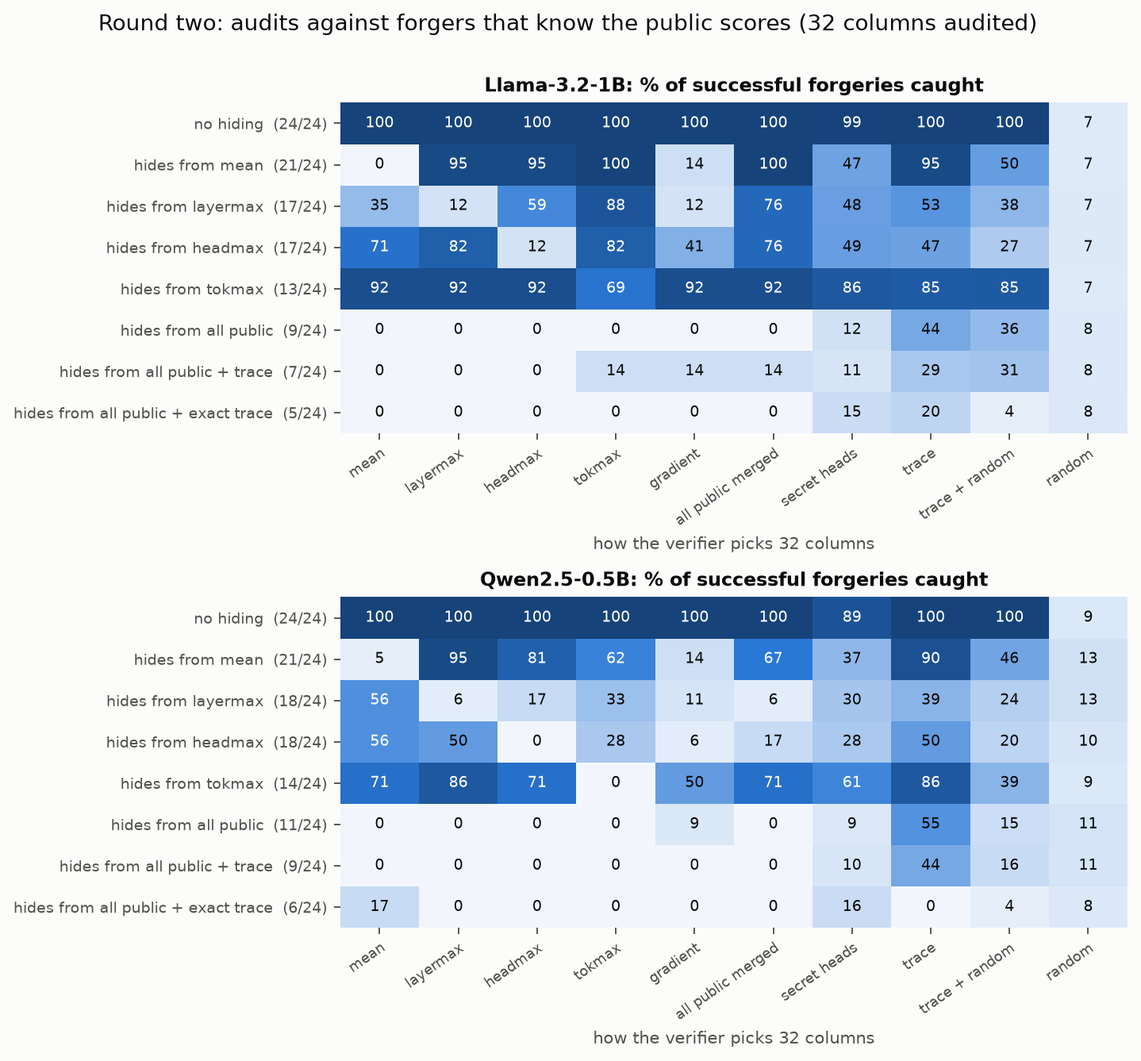
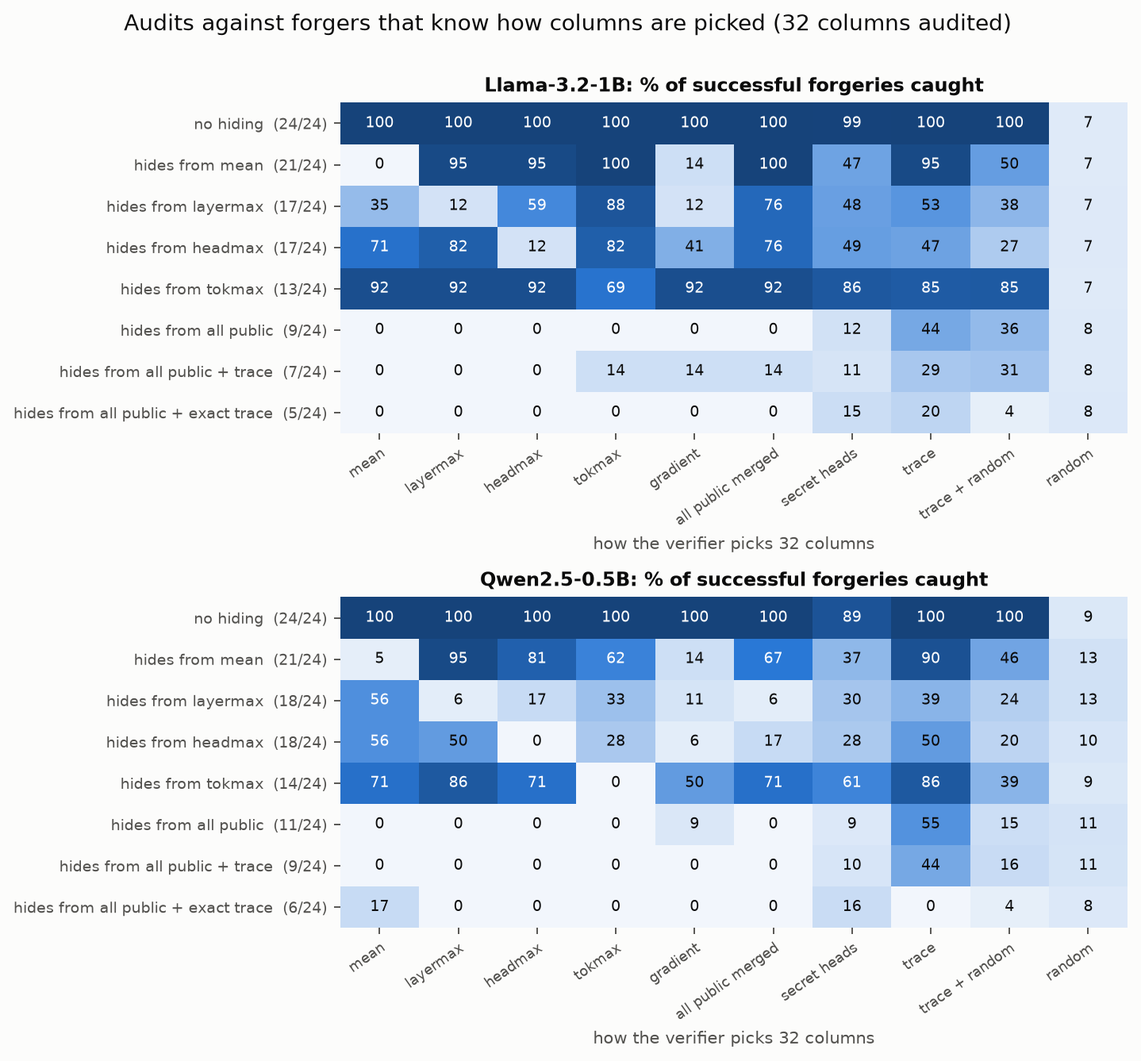
Defense figure title covers round three

Changed region(s): [[0.0918, 0.0, 0.9179, 0.0307]]

diff --git a/docs/paper.html b/docs/paper.html
@@ -52,7 +52,7 @@ code{font-size:13px}.refs{font-size:13.5px}
 <h2>4. One column is enough</h2><p>We forge one column, at one of five depths and three kinds of position: the last token of the fact's value, a uniformly random non-sink token, and the last document token. The forger may change the residual stream there by up to β times its norm. It then runs the rest of the prefill honestly. Over 24 memos per model (mean length 446 and 429 tokens) and 576 attacks per model, 446 of the Llama forgeries and 434 of the Qwen forgeries made the trusted node answer exactly the attacker's value. At β&nbsp;=&nbsp;1, the success rate across all layers and positions is 86% for Llama and 80% for Qwen. Position barely matters: a forged column on an unrelated token, far from the fact, works about as well as one on the fact itself. The attack does not need to edit the fact. It needs one place the question reads.</p><p>The full column check confirms the structure from §3.1. In 99.8% (Llama) and 98.6% (Qwen) of successful forgeries, the forged column is the <i>only</i> column that fails. The few exceptions are forgeries that also change later columns enough to show. No honest cache failed a single column: the largest honest score over all 48 evaluation memos was 0.79 for Llama and 0.98 for Qwen, against a threshold of 1. These memos are disjoint from the 20 calibration memos.</p><figure><img src="figures/forge_success.png" alt="forge_success"><figcaption>Figure 1. Success rate of single-column forgeries (β = 1) by layer and position kind, with 95% Wilson intervals.</figcaption></figure><figure><img src="figures/forge_budget.png" alt="forge_budget"><figcaption>Figure 2. Success against the perturbation budget β at the middle layer.</figcaption></figure><table class=""><tr><th>model</th><th>layer</th><th>β</th><th>success</th><th>value pos.</th><th>random pos.</th><th>last pos.</th><th>only forged col. fails</th></tr><tr><td>Llama-3.2-1B</td><td>1</td><td>1</td><td>60/72</td><td>96%</td><td>75%</td><td>79%</td><td>98%</td></tr><tr><td>Llama-3.2-1B</td><td>4</td><td>1</td><td>60/72</td><td>92%</td><td>88%</td><td>71%</td><td>100%</td></tr><tr><td>Llama-3.2-1B</td><td>8</td><td>0.25</td><td>12/72</td><td>29%</td><td>8%</td><td>12%</td><td>100%</td></tr><tr><td>Llama-3.2-1B</td><td>8</td><td>0.5</td><td>55/72</td><td>71%</td><td>71%</td><td>88%</td><td>100%</td></tr><tr><td>Llama-3.2-1B</td><td>8</td><td>1</td><td>69/72</td><td>96%</td><td>96%</td><td>96%</td><td>100%</td></tr><tr><td>Llama-3.2-1B</td><td>8</td><td>2</td><td>70/72</td><td>92%</td><td>100%</td><td>100%</td><td>100%</td></tr><tr><td>Llama-3.2-1B</td><td>12</td><td>1</td><td>66/72</td><td>83%</td><td>92%</td><td>100%</td><td>100%</td></tr><tr><td>Llama-3.2-1B</td><td>15</td><td>1</td><td>54/72</td><td>50%</td><td>83%</td><td>92%</td><td>100%</td></tr><tr><td>Qwen2.5-0.5B</td><td>1</td><td>1</td><td>47/72</td><td>92%</td><td>58%</td><td>46%</td><td>96%</td></tr><tr><td>Qwen2.5-0.5B</td><td>6</td><td>1</td><td>66/72</td><td>100%</td><td>83%</td><td>92%</td><td>95%</td></tr><tr><td>Qwen2.5-0.5B</td><td>12</td><td>0.25</td><td>18/72</td><td>25%</td><td>21%</td><td>29%</td><td>100%</td></tr><tr><td>Qwen2.5-0.5B</td><td>12</td><td>0.5</td><td>58/72</td><td>83%</td><td>67%</td><td>92%</td><td>100%</td></tr><tr><td>Qwen2.5-0.5B</td><td>12</td><td>1</td><td>69/72</td><td>96%</td><td>96%</td><td>96%</td><td>100%</td></tr><tr><td>Qwen2.5-0.5B</td><td>12</td><td>2</td><td>70/72</td><td>100%</td><td>96%</td><td>96%</td><td>99%</td></tr><tr><td>Qwen2.5-0.5B</td><td>18</td><td>1</td><td>66/72</td><td>83%</td><td>92%</td><td>100%</td><td>100%</td></tr><tr><td>Qwen2.5-0.5B</td><td>23</td><td>1</td><td>40/72</td><td>71%</td><td>58%</td><td>38%</td><td>100%</td></tr></table><p class='cap'>Table 1. Single-column forgeries. 24 tasks × 3 positions per row.</p>
 <h2>5. Auditing where the question reads</h2><p>A full check is a second prefill, so the practical question is how few columns an audit needs. Uniform sampling of <i>k</i> columns catches one bad column with probability <i>k/T</i>. The data match: 64 random columns catch 15% of Llama forgeries and 15% of Qwen forgeries. Checking the 4 sinks plus the 4 columns with the highest value-weighted attention (<i>k</i>&nbsp;=&nbsp;8 in total) catches 91% and 77%. With <i>k</i>&nbsp;=&nbsp;32 it catches 98% and 95%. The median forged column is the 5th most-read column, counting the four sinks: to change the answer, the forged column has to be read, and reading is visible. In 79% of Llama forgeries and 66% of Qwen forgeries, the single most-read non-sink column <i>is</i> the forged one.</p><p>Forgeries on the last document token are the easiest to find (top-8 catches 97% on Llama). The last token is read heavily by the question in any case. Forgeries on the fact's own value token are the hardest (84%), because the honest value token is already among the most-read, so a forgery there competes with the real signal. Qwen is harder throughout. With only 2 KV heads, its attention spreads over more columns, so the forged one is less of an outlier.</p><figure><img src="figures/detection.png" alt="detection"><figcaption>Figure 3. Probability that an audit of k columns contains the forged column. Exact hypergeometric probabilities for random plans, averaged over successful forgeries.</figcaption></figure><table class=""><tr><th>model</th><th>forgeries</th><th>top-8</th><th>top-16</th><th>top-32</th><th>top-8 + 8 random</th><th>random 4</th><th>random 16</th><th>random 64</th></tr><tr><td>Llama-3.2-1B</td><td>446</td><td>91%</td><td>96%</td><td>98%</td><td>91%</td><td>0.9%</td><td>3.7%</td><td>14.5%</td></tr><tr><td>Qwen2.5-0.5B</td><td>434</td><td>77%</td><td>86%</td><td>95%</td><td>78%</td><td>0.9%</td><td>3.8%</td><td>15.1%</td></tr></table><p class='cap'>Table 2. Detection of successful single-column forgeries. Top-k includes the 4 sink columns.</p><h3>5.1 Long documents</h3><p>The ratio matters more as documents grow. With the facts scattered through Moby-Dick (Llama, layers L/4, L/2, 3L/4), a 2044-token cache leaves uniform 64-column audits at 3.2%, while top-32 still catches 100%. The forged column's median rank stays small as <i>T</i> grows, so the audit cost in columns stays flat while the uniform cost grows linearly.</p><table class=""><tr><th>T (tokens)</th><th>success</th><th>only forged fails</th><th>top-8</th><th>top-16</th><th>top-32</th><th>random 64</th><th>median rank</th></tr><tr><td>2044</td><td>97/108</td><td>99.0%</td><td>96%</td><td>100%</td><td>100%</td><td>3.2%</td><td>5</td></tr></table><p class='cap'>Table 3. Llama-3.2-1B on long documents.</p>
 <h2>6. Adaptive attackers</h2><p>The audit's strength in §5 rests on a forged column having to be read. An attacker who knows the scoring rule can try to be read <i>enough</i> without being read <i>most</i>. Our adaptive forger adds a hinge penalty that pushes each forged column's score below 0.7× the score of the <i>k</i>-th ranked other column. The score is computed on its own forged cache with the trusted node's question, which we let the attacker know in advance. It attacks one of two scores: <i>mean</i> (the default in §5) or <i>layermax</i> (per-layer normalised, max over layers). It can also spread the edit over <i>m</i> random columns.</p><h3>Llama-3.2-1B</h3><table class="small"><tr><th>attacker</th><th>success</th><th>rank (mean)</th><th>rank (layermax)</th><th>rank (grad)</th><th>top-32 mean</th><th>top-32 layermax</th><th>ensemble-16</th><th>top-32 + 32 random</th><th>random 64</th><th>direct</th></tr><tr><td>no hiding (λ = 0)</td><td>16/16</td><td>0</td><td>0</td><td>0</td><td>100%</td><td>100%</td><td>100%</td><td>100%</td><td>14%</td><td>100%</td></tr><tr><td>m = 1, hide below top-4, vs. mean</td><td>14/16</td><td>10</td><td>0</td><td>22</td><td>100%</td><td>100%</td><td>100%</td><td>100%</td><td>15%</td><td>71%</td></tr><tr><td>m = 1, hide below top-28, vs. mean</td><td>10/16</td><td>50</td><td>11</td><td>49</td><td>0%</td><td>100%</td><td>70%</td><td>8%</td><td>15%</td><td>60%</td></tr><tr><td>m = 1, hide below top-4, vs. layermax</td><td>12/16</td><td>38</td><td>10</td><td>54</td><td>42%</td><td>100%</td><td>92%</td><td>47%</td><td>15%</td><td>83%</td></tr><tr><td>m = 1, hide below top-12, vs. layermax</td><td>9/16</td><td>20</td><td>23</td><td>38</td><td>67%</td><td>78%</td><td>56%</td><td>69%</td><td>16%</td><td>78%</td></tr><tr><td>m = 1, hide below top-28, vs. layermax</td><td>8/16</td><td>50</td><td>35</td><td>47</td><td>25%</td><td>38%</td><td>38%</td><td>32%</td><td>16%</td><td>75%</td></tr><tr><td>m = 1, hide below top-60, vs. layermax</td><td>6/16</td><td>2</td><td>8</td><td>26</td><td>83%</td><td>83%</td><td>83%</td><td>85%</td><td>14%</td><td>100%</td></tr><tr><td>m = 4, hide below top-12, vs. layermax</td><td>13/16</td><td>4</td><td>7</td><td>14</td><td>77%</td><td>100%</td><td>85%</td><td>84%</td><td>47%</td><td>92%</td></tr><tr><td>m = 16, hide below top-12, vs. layermax</td><td>13/16</td><td>0</td><td>0</td><td>1</td><td>100%</td><td>100%</td><td>100%</td><td>100%</td><td>92%</td><td>92%</td></tr><tr><td>m = 64, hide below top-12, vs. layermax</td><td>15/16</td><td>0</td><td>0</td><td>0</td><td>100%</td><td>100%</td><td>100%</td><td>100%</td><td>100%</td><td>100%</td></tr></table><h3>Qwen2.5-0.5B</h3><table class="small"><tr><th>attacker</th><th>success</th><th>rank (mean)</th><th>rank (layermax)</th><th>rank (grad)</th><th>top-32 mean</th><th>top-32 layermax</th><th>ensemble-16</th><th>top-32 + 32 random</th><th>random 64</th><th>direct</th></tr><tr><td>no hiding (λ = 0)</td><td>16/16</td><td>0</td><td>0</td><td>7</td><td>100%</td><td>100%</td><td>100%</td><td>100%</td><td>18%</td><td>100%</td></tr><tr><td>m = 1, hide below top-4, vs. mean</td><td>15/16</td><td>12</td><td>0</td><td>23</td><td>87%</td><td>87%</td><td>87%</td><td>88%</td><td>16%</td><td>73%</td></tr><tr><td>m = 1, hide below top-28, vs. mean</td><td>12/16</td><td>49</td><td>1</td><td>100</td><td>8%</td><td>92%</td><td>75%</td><td>17%</td><td>17%</td><td>50%</td></tr><tr><td>m = 1, hide below top-4, vs. layermax</td><td>15/16</td><td>24</td><td>11</td><td>44</td><td>53%</td><td>67%</td><td>67%</td><td>58%</td><td>20%</td><td>40%</td></tr><tr><td>m = 1, hide below top-12, vs. layermax</td><td>11/16</td><td>24</td><td>21</td><td>56</td><td>55%</td><td>82%</td><td>45%</td><td>60%</td><td>17%</td><td>73%</td></tr><tr><td>m = 1, hide below top-28, vs. layermax</td><td>9/16</td><td>87</td><td>51</td><td>110</td><td>33%</td><td>0%</td><td>0%</td><td>39%</td><td>15%</td><td>56%</td></tr><tr><td>m = 1, hide below top-60, vs. layermax</td><td>6/16</td><td>46</td><td>90</td><td>72</td><td>33%</td><td>17%</td><td>33%</td><td>40%</td><td>17%</td><td>33%</td></tr><tr><td>m = 4, hide below top-12, vs. layermax</td><td>13/16</td><td>10</td><td>14</td><td>28</td><td>77%</td><td>92%</td><td>77%</td><td>84%</td><td>51%</td><td>92%</td></tr><tr><td>m = 16, hide below top-12, vs. layermax</td><td>14/16</td><td>6</td><td>12</td><td>11</td><td>100%</td><td>100%</td><td>100%</td><td>100%</td><td>93%</td><td>100%</td></tr><tr><td>m = 64, hide below top-12, vs. layermax</td><td>14/16</td><td>0</td><td>0</td><td>1</td><td>100%</td><td>100%</td><td>100%</td><td>100%</td><td>100%</td><td>93%</td></tr></table><p class='cap'>Table 4. Adaptive forgeries at the middle layer, β = 1. Ranks are the median over successful attacks of the best-hidden forged column's rank among non-sink columns (0 = most read). Detection columns are the probability of catching it. Ensemble-16 is the union of the top 16 under all three scores, plus the sinks (≈ 30–45 columns). <i>Direct</i> is the fraction where putting the honest forged columns back restores the honest answer, so the effect does not run through other columns.</p><p><b>A single score can be gamed.</b> Without the penalty, the forged column is ranked 0 (median, among non-sink columns). An attacker hiding below the top 28 under the mean score still succeeds in 10/16 tasks and lands at rank 50, so top-32 under that score catches it 0% of the time. The same forgery is ranked 11 by layermax: the mean score is low because the column is read hard at a few layers, not lightly everywhere.</p><p><b>Gaming the stronger score works too.</b> Attacking layermax directly with hide-28, the forger succeeds in 8/16 tasks. Its column then ranks 35 under layermax, 50 under mean and 47 under the gradient score, and top-32 layermax catches 38%. The union of the top 16 under all three scores catches 38%, with about 32 columns. This is the honest result: an attacker that knows the score can lower it. A deterministic top-k audit is an arms race, not a guarantee.</p><p>Qwen2.5-0.5B is easier to game. The same attacker succeeds in 9/16 tasks, and top-32 layermax catches 0% of them, the ensemble 0%. Only the random columns still find it, at the k/T rate (15% for 64).</p><p><b>Spreading out costs the attacker detectability elsewhere.</b> With m&nbsp;=&nbsp;64 forged columns hidden from layermax top-12, it succeeds in 15/16 tasks, but each of those caches has 64 failing columns, so 64 random columns catch it 100% of the time. That is the case random draws are for. Mixing the two (top-32 + 32 random) covers both ends: 100% here.</p><p>So the deterministic part of an audit should be treated as a cheap filter for non-adaptive faults and attacks. Guarantees against an adaptive forger come only from the random part, at <i>k/T</i> per forged column, or from a full recompute of whatever the audit's budget cannot cover.</p><figure><img src="figures/adaptive.png" alt="adaptive"><figcaption>Figure 4. Adaptive attackers. Left: where the forged column lands in each ranking. Right: detection by audit plan.</figcaption></figure>
-<h3>6.1 Round two: audits the attacker cannot see</h3><p>Two things stand out in Table 4. Different scores disagree about where a hidden column lands, and in 24% (Llama-3.2-1B) and 44% (Qwen2.5-0.5B) of successful hidden single-column forgeries, putting the honest column back does <i>not</i> restore the answer. The forgery has been <i>laundered</i>: later columns read the forged one during prefill, carry its effect forward, and the question reads them instead. Those later columns are consistent with their inputs, so they pass the check. This suggests two defenses. The first is scores the attacker cannot optimise against: finer ones (per head, per reader token) and a <b>secret</b> one, a random quarter of the heads with random weights, drawn by the verifier for each audit. The second is <b>tracing</b>. The audit recomputes its columns anyway, and the recomputation yields each column's own attention to earlier columns. So after auditing the most-read columns, the verifier follows what <i>they</i> read most (value-weighted, per head, max over layers), audits those, and repeats until the budget is spent (Algorithm: half the budget on merged public scores, the rest in rounds of B/8 traced columns).</p><p>We test this against seven attackers that hide one forged column below the 28 most-read columns of one public score, of all four at once, or of all four <i>and</i> the tracing rule itself, using a differentiable copy of the trace rows on the forged prefill. 24 tasks per model, 150 Adam steps, middle layer, β = 1. Every plan audits exactly 32 columns, including the 4 sinks.</p><h3>Llama-3.2-1B</h3><table class="small"><tr><th>attacker</th><th>success</th><th>mean</th><th>layermax</th><th>headmax</th><th>tokmax</th><th>gradient</th><th>all public merged</th><th>secret heads</th><th>trace</th><th>trace + random</th><th>random</th></tr><tr><td>no hiding</td><td>24/24</td><td>100%</td><td>100%</td><td>100%</td><td>100%</td><td>100%</td><td>100%</td><td>99%</td><td>100%</td><td>100%</td><td>7%</td></tr><tr><td>hides from mean</td><td>21/24</td><td>0%</td><td>95%</td><td>95%</td><td>100%</td><td>14%</td><td>100%</td><td>47%</td><td>95%</td><td>50%</td><td>7%</td></tr><tr><td>hides from layermax</td><td>17/24</td><td>35%</td><td>12%</td><td>59%</td><td>88%</td><td>12%</td><td>76%</td><td>48%</td><td>53%</td><td>38%</td><td>7%</td></tr><tr><td>hides from headmax</td><td>17/24</td><td>71%</td><td>82%</td><td>12%</td><td>82%</td><td>41%</td><td>76%</td><td>49%</td><td>47%</td><td>27%</td><td>7%</td></tr><tr><td>hides from tokmax</td><td>13/24</td><td>92%</td><td>92%</td><td>92%</td><td>69%</td><td>92%</td><td>92%</td><td>86%</td><td>85%</td><td>85%</td><td>7%</td></tr><tr><td>hides from all public</td><td>9/24</td><td>0%</td><td>0%</td><td>0%</td><td>0%</td><td>0%</td><td>0%</td><td>12%</td><td>44%</td><td>36%</td><td>8%</td></tr><tr><td>hides from all public + trace</td><td>7/24</td><td>0%</td><td>0%</td><td>0%</td><td>14%</td><td>14%</td><td>14%</td><td>11%</td><td>29%</td><td>31%</td><td>8%</td></tr><tr><td>hides from all public + exact trace</td><td>5/24</td><td>0%</td><td>0%</td><td>0%</td><td>0%</td><td>0%</td><td>0%</td><td>15%</td><td>20%</td><td>4%</td><td>8%</td></tr></table><h3>Qwen2.5-0.5B</h3><table class="small"><tr><th>attacker</th><th>success</th><th>mean</th><th>layermax</th><th>headmax</th><th>tokmax</th><th>gradient</th><th>all public merged</th><th>secret heads</th><th>trace</th><th>trace + random</th><th>random</th></tr><tr><td>no hiding</td><td>24/24</td><td>100%</td><td>100%</td><td>100%</td><td>100%</td><td>100%</td><td>100%</td><td>89%</td><td>100%</td><td>100%</td><td>9%</td></tr><tr><td>hides from mean</td><td>21/24</td><td>5%</td><td>95%</td><td>81%</td><td>62%</td><td>14%</td><td>67%</td><td>37%</td><td>90%</td><td>46%</td><td>13%</td></tr><tr><td>hides from layermax</td><td>18/24</td><td>56%</td><td>6%</td><td>17%</td><td>33%</td><td>11%</td><td>6%</td><td>30%</td><td>39%</td><td>24%</td><td>13%</td></tr><tr><td>hides from headmax</td><td>18/24</td><td>56%</td><td>50%</td><td>0%</td><td>28%</td><td>6%</td><td>17%</td><td>28%</td><td>50%</td><td>20%</td><td>10%</td></tr><tr><td>hides from tokmax</td><td>14/24</td><td>71%</td><td>86%</td><td>71%</td><td>0%</td><td>50%</td><td>71%</td><td>61%</td><td>86%</td><td>39%</td><td>9%</td></tr><tr><td>hides from all public</td><td>11/24</td><td>0%</td><td>0%</td><td>0%</td><td>0%</td><td>9%</td><td>0%</td><td>9%</td><td>55%</td><td>15%</td><td>11%</td></tr><tr><td>hides from all public + trace</td><td>9/24</td><td>0%</td><td>0%</td><td>0%</td><td>0%</td><td>0%</td><td>0%</td><td>10%</td><td>44%</td><td>16%</td><td>11%</td></tr><tr><td>hides from all public + exact trace</td><td>6/24</td><td>17%</td><td>0%</td><td>0%</td><td>0%</td><td>0%</td><td>0%</td><td>16%</td><td>0%</td><td>4%</td><td>8%</td></tr></table><p class='cap'>Table 5. Probability that a 32-column audit catches a successful forgery, by attacker (rows) and audit plan (columns). Secret: mean over 32 secret draws. Random parts are exact hypergeometric probabilities.</p><figure><img src="figures/defense.png" alt="defense"><figcaption>Figure 5. Round two of the arms race. Each cell: share of successful forgeries a 32-column audit catches.</figcaption></figure><p><b>The game.</b> An audit plan is only as good as the attacker's best reply to it. For each plan, Table 6 gives the share of tasks in which the <i>best</i> of our attackers both flips the answer and escapes the audit (success rate × miss rate, maximised over attackers). On Llama-3.2-1B, against a 32-column audit the attacker's best reply wins 88% of the time if the verifier uses the default mean score, 93% against random columns, and 38% against the best plan, <i>tokmax</i> (its best reply there: <i>hides from all public</i>). On Qwen2.5-0.5B, against a 32-column audit the attacker's best reply wins 83% of the time if the verifier uses the default mean score, 91% against random columns, and 46% against the best plan, <i>trace</i> (its best reply there: <i>hides from layermax</i>).</p><table class="small"><tr><th>audit plan</th><th>Llama B=16</th><th>Llama B=32</th><th>Llama B=64</th><th>Qwen2.5 B=16</th><th>Qwen2.5 B=32</th><th>Qwen2.5 B=64</th></tr><tr><td>mean</td><td>88%</td><td>88%</td><td>25%</td><td>88%</td><td>83%</td><td>29%</td></tr><tr><td>layermax</td><td>67%</td><td>62%</td><td>21%</td><td>75%</td><td>71%</td><td>25%</td></tr><tr><td>headmax</td><td>62%</td><td>62%</td><td>29%</td><td>75%</td><td>75%</td><td>46%</td></tr><tr><td>tokmax</td><td>38%</td><td>38%</td><td>21%</td><td>75%</td><td>58%</td><td>33%</td></tr><tr><td>gradient</td><td>88%</td><td>75%</td><td>42%</td><td>83%</td><td>75%</td><td>62%</td></tr><tr><td>all public merged</td><td>58%</td><td>38%</td><td>33%</td><td>75%</td><td>71%</td><td>38%</td></tr><tr><td>secret heads</td><td>60%</td><td>47%</td><td>29%</td><td>68%</td><td>55%</td><td>41%</td></tr><tr><td>trace</td><td>54%</td><td>38%</td><td>17%</td><td>62%</td><td>46%</td><td>25%</td></tr><tr><td>trace + random</td><td>97%</td><td>52%</td><td>34%</td><td>97%</td><td>60%</td><td>38%</td></tr><tr><td>random</td><td>96%</td><td>93%</td><td>85%</td><td>95%</td><td>91%</td><td>82%</td></tr></table><p class='cap'>Table 6. Worst-case attacker win rate per audit plan (lower is better for the verifier), at audit budgets of 16, 32 and 64 columns.</p><figure><img src="figures/game.png" alt="game"><figcaption>Figure 6. The attacker's best reply to each 32-column audit plan: how often it both flips the answer and escapes the audit.</figcaption></figure><p><b>What holds on both models.</b> (1) The default mean score is the easiest to game: the best reply beats a 32-column mean audit 88% of the time on Llama-3.2-1B and 83% of the time on Qwen2.5-0.5B, no better than 32 random columns (93%, 91%). (2) No single public score is robust across models. The finest one, tokmax (per head, layer and reader token), holds the attacker to 38% on Llama-3.2-1B but 58% on Qwen2.5-0.5B. (3) Tracing is the most consistent plan: 38% on Llama-3.2-1B and 46% on Qwen2.5-0.5B. It does not rely on any one score, but follows the path the forged information has to take to reach the question. The attacker that also optimises against the trace rule did exactly as well as the one that ignores it, in success and in detection. Our differentiable copy of the trace covers one hop from a fixed set of read columns, while the verifier keeps following hops until its budget runs out; a stronger trace-aware attacker is the obvious next step. (4) Secret head subsets help only modestly (47%, 55%): an attacker that is quiet in every head is quiet in any subset of them.</p><p>Two caveats. The attackers hide below rank 28, which matches the 32-column budget. At 64 columns every attention-based plan looks strong (tracing 17% on Llama-3.2-1B, tracing 25% on Qwen2.5-0.5B) only because the attackers were not told about the larger budget. And all of these are games against our optimiser (150 Adam steps, one hinge loss per score), so the rates describe a modest white-box attacker, not a bound. Random columns give the only attacker-independent guarantee, and at k/T it is a weak one.</p><p><b>Round three: an attacker that knows the trace exactly.</b> We gave the forger a replay of the verifier's own trace plan (same budget, same rounds, same weights, on its own forged prefill), and a penalty whenever its column would be picked, on top of hiding from all four public scores. On Llama-3.2-1B, it succeeds in only 5/24 tasks; tracing catches 20% of those, so it beats the traced audit in 17% of tasks, below the best reply to tracing among the other attackers (38%). On Qwen2.5-0.5B, it succeeds in only 6/24 tasks; tracing catches 0% of those, so it beats the traced audit in 25% of tasks, below the best reply to tracing among the other attackers (46%). Knowing the rule lets the attacker evade it, but satisfying it costs most of its success. A plausible reading, which we have not tested directly: the forged information has to reach the question through some column the question reads, and keeping every hop of that path quiet leaves little room to change the answer. The worst case for tracing is still set by simpler attackers.</p>
+<h3>6.1 Round two: audits the attacker cannot see</h3><p>Two things stand out in Table 4. Different scores disagree about where a hidden column lands, and in 24% (Llama-3.2-1B) and 44% (Qwen2.5-0.5B) of successful hidden single-column forgeries, putting the honest column back does <i>not</i> restore the answer. The forgery has been <i>laundered</i>: later columns read the forged one during prefill, carry its effect forward, and the question reads them instead. Those later columns are consistent with their inputs, so they pass the check. This suggests two defenses. The first is scores the attacker cannot optimise against: finer ones (per head, per reader token) and a <b>secret</b> one, a random quarter of the heads with random weights, drawn by the verifier for each audit. The second is <b>tracing</b>. The audit recomputes its columns anyway, and the recomputation yields each column's own attention to earlier columns. So after auditing the most-read columns, the verifier follows what <i>they</i> read most (value-weighted, per head, max over layers), audits those, and repeats until the budget is spent (Algorithm: half the budget on merged public scores, the rest in rounds of B/8 traced columns).</p><p>We test this against seven attackers that hide one forged column below the 28 most-read columns of one public score, of all four at once, or of all four <i>and</i> the tracing rule itself, using a differentiable copy of the trace rows on the forged prefill. 24 tasks per model, 150 Adam steps, middle layer, β = 1. Every plan audits exactly 32 columns, including the 4 sinks.</p><h3>Llama-3.2-1B</h3><table class="small"><tr><th>attacker</th><th>success</th><th>mean</th><th>layermax</th><th>headmax</th><th>tokmax</th><th>gradient</th><th>all public merged</th><th>secret heads</th><th>trace</th><th>trace + random</th><th>random</th></tr><tr><td>no hiding</td><td>24/24</td><td>100%</td><td>100%</td><td>100%</td><td>100%</td><td>100%</td><td>100%</td><td>99%</td><td>100%</td><td>100%</td><td>7%</td></tr><tr><td>hides from mean</td><td>21/24</td><td>0%</td><td>95%</td><td>95%</td><td>100%</td><td>14%</td><td>100%</td><td>47%</td><td>95%</td><td>50%</td><td>7%</td></tr><tr><td>hides from layermax</td><td>17/24</td><td>35%</td><td>12%</td><td>59%</td><td>88%</td><td>12%</td><td>76%</td><td>48%</td><td>53%</td><td>38%</td><td>7%</td></tr><tr><td>hides from headmax</td><td>17/24</td><td>71%</td><td>82%</td><td>12%</td><td>82%</td><td>41%</td><td>76%</td><td>49%</td><td>47%</td><td>27%</td><td>7%</td></tr><tr><td>hides from tokmax</td><td>13/24</td><td>92%</td><td>92%</td><td>92%</td><td>69%</td><td>92%</td><td>92%</td><td>86%</td><td>85%</td><td>85%</td><td>7%</td></tr><tr><td>hides from all public</td><td>9/24</td><td>0%</td><td>0%</td><td>0%</td><td>0%</td><td>0%</td><td>0%</td><td>12%</td><td>44%</td><td>36%</td><td>8%</td></tr><tr><td>hides from all public + trace</td><td>7/24</td><td>0%</td><td>0%</td><td>0%</td><td>14%</td><td>14%</td><td>14%</td><td>11%</td><td>29%</td><td>31%</td><td>8%</td></tr><tr><td>hides from all public + exact trace</td><td>5/24</td><td>0%</td><td>0%</td><td>0%</td><td>0%</td><td>0%</td><td>0%</td><td>15%</td><td>20%</td><td>4%</td><td>8%</td></tr></table><h3>Qwen2.5-0.5B</h3><table class="small"><tr><th>attacker</th><th>success</th><th>mean</th><th>layermax</th><th>headmax</th><th>tokmax</th><th>gradient</th><th>all public merged</th><th>secret heads</th><th>trace</th><th>trace + random</th><th>random</th></tr><tr><td>no hiding</td><td>24/24</td><td>100%</td><td>100%</td><td>100%</td><td>100%</td><td>100%</td><td>100%</td><td>89%</td><td>100%</td><td>100%</td><td>9%</td></tr><tr><td>hides from mean</td><td>21/24</td><td>5%</td><td>95%</td><td>81%</td><td>62%</td><td>14%</td><td>67%</td><td>37%</td><td>90%</td><td>46%</td><td>13%</td></tr><tr><td>hides from layermax</td><td>18/24</td><td>56%</td><td>6%</td><td>17%</td><td>33%</td><td>11%</td><td>6%</td><td>30%</td><td>39%</td><td>24%</td><td>13%</td></tr><tr><td>hides from headmax</td><td>18/24</td><td>56%</td><td>50%</td><td>0%</td><td>28%</td><td>6%</td><td>17%</td><td>28%</td><td>50%</td><td>20%</td><td>10%</td></tr><tr><td>hides from tokmax</td><td>14/24</td><td>71%</td><td>86%</td><td>71%</td><td>0%</td><td>50%</td><td>71%</td><td>61%</td><td>86%</td><td>39%</td><td>9%</td></tr><tr><td>hides from all public</td><td>11/24</td><td>0%</td><td>0%</td><td>0%</td><td>0%</td><td>9%</td><td>0%</td><td>9%</td><td>55%</td><td>15%</td><td>11%</td></tr><tr><td>hides from all public + trace</td><td>9/24</td><td>0%</td><td>0%</td><td>0%</td><td>0%</td><td>0%</td><td>0%</td><td>10%</td><td>44%</td><td>16%</td><td>11%</td></tr><tr><td>hides from all public + exact trace</td><td>6/24</td><td>17%</td><td>0%</td><td>0%</td><td>0%</td><td>0%</td><td>0%</td><td>16%</td><td>0%</td><td>4%</td><td>8%</td></tr></table><p class='cap'>Table 5. Probability that a 32-column audit catches a successful forgery, by attacker (rows) and audit plan (columns). Secret: mean over 32 secret draws. Random parts are exact hypergeometric probabilities.</p><figure><img src="figures/defense.png" alt="defense"><figcaption>Figure 5. Rounds two and three of the arms race. Each cell: share of successful forgeries a 32-column audit catches.</figcaption></figure><p><b>The game.</b> An audit plan is only as good as the attacker's best reply to it. For each plan, Table 6 gives the share of tasks in which the <i>best</i> of our attackers both flips the answer and escapes the audit (success rate × miss rate, maximised over attackers). On Llama-3.2-1B, against a 32-column audit the attacker's best reply wins 88% of the time if the verifier uses the default mean score, 93% against random columns, and 38% against the best plan, <i>tokmax</i> (its best reply there: <i>hides from all public</i>). On Qwen2.5-0.5B, against a 32-column audit the attacker's best reply wins 83% of the time if the verifier uses the default mean score, 91% against random columns, and 46% against the best plan, <i>trace</i> (its best reply there: <i>hides from layermax</i>).</p><table class="small"><tr><th>audit plan</th><th>Llama B=16</th><th>Llama B=32</th><th>Llama B=64</th><th>Qwen2.5 B=16</th><th>Qwen2.5 B=32</th><th>Qwen2.5 B=64</th></tr><tr><td>mean</td><td>88%</td><td>88%</td><td>25%</td><td>88%</td><td>83%</td><td>29%</td></tr><tr><td>layermax</td><td>67%</td><td>62%</td><td>21%</td><td>75%</td><td>71%</td><td>25%</td></tr><tr><td>headmax</td><td>62%</td><td>62%</td><td>29%</td><td>75%</td><td>75%</td><td>46%</td></tr><tr><td>tokmax</td><td>38%</td><td>38%</td><td>21%</td><td>75%</td><td>58%</td><td>33%</td></tr><tr><td>gradient</td><td>88%</td><td>75%</td><td>42%</td><td>83%</td><td>75%</td><td>62%</td></tr><tr><td>all public merged</td><td>58%</td><td>38%</td><td>33%</td><td>75%</td><td>71%</td><td>38%</td></tr><tr><td>secret heads</td><td>60%</td><td>47%</td><td>29%</td><td>68%</td><td>55%</td><td>41%</td></tr><tr><td>trace</td><td>54%</td><td>38%</td><td>17%</td><td>62%</td><td>46%</td><td>25%</td></tr><tr><td>trace + random</td><td>97%</td><td>52%</td><td>34%</td><td>97%</td><td>60%</td><td>38%</td></tr><tr><td>random</td><td>96%</td><td>93%</td><td>85%</td><td>95%</td><td>91%</td><td>82%</td></tr></table><p class='cap'>Table 6. Worst-case attacker win rate per audit plan (lower is better for the verifier), at audit budgets of 16, 32 and 64 columns.</p><figure><img src="figures/game.png" alt="game"><figcaption>Figure 6. The attacker's best reply to each 32-column audit plan: how often it both flips the answer and escapes the audit.</figcaption></figure><p><b>What holds on both models.</b> (1) The default mean score is the easiest to game: the best reply beats a 32-column mean audit 88% of the time on Llama-3.2-1B and 83% of the time on Qwen2.5-0.5B, no better than 32 random columns (93%, 91%). (2) No single public score is robust across models. The finest one, tokmax (per head, layer and reader token), holds the attacker to 38% on Llama-3.2-1B but 58% on Qwen2.5-0.5B. (3) Tracing is the most consistent plan: 38% on Llama-3.2-1B and 46% on Qwen2.5-0.5B. It does not rely on any one score, but follows the path the forged information has to take to reach the question. The attacker that also optimises against the trace rule did exactly as well as the one that ignores it, in success and in detection. Our differentiable copy of the trace covers one hop from a fixed set of read columns, while the verifier keeps following hops until its budget runs out; a stronger trace-aware attacker is the obvious next step. (4) Secret head subsets help only modestly (47%, 55%): an attacker that is quiet in every head is quiet in any subset of them.</p><p>Two caveats. The attackers hide below rank 28, which matches the 32-column budget. At 64 columns every attention-based plan looks strong (tracing 17% on Llama-3.2-1B, tracing 25% on Qwen2.5-0.5B) only because the attackers were not told about the larger budget. And all of these are games against our optimiser (150 Adam steps, one hinge loss per score), so the rates describe a modest white-box attacker, not a bound. Random columns give the only attacker-independent guarantee, and at k/T it is a weak one.</p><p><b>Round three: an attacker that knows the trace exactly.</b> We gave the forger a replay of the verifier's own trace plan (same budget, same rounds, same weights, on its own forged prefill), and a penalty whenever its column would be picked, on top of hiding from all four public scores. On Llama-3.2-1B, it succeeds in only 5/24 tasks; tracing catches 20% of those, so it beats the traced audit in 17% of tasks, below the best reply to tracing among the other attackers (38%). On Qwen2.5-0.5B, it succeeds in only 6/24 tasks; tracing catches 0% of those, so it beats the traced audit in 25% of tasks, below the best reply to tracing among the other attackers (46%). Knowing the rule lets the attacker evade it, but satisfying it costs most of its success. A plausible reading, which we have not tested directly: the forged information has to reach the question through some column the question reads, and keeping every hop of that path quiet leaves little room to change the answer. The worst case for tracing is still set by simpler attackers.</p>
 <h2>7. Hiding inside the tolerance</h2><p>bf16 forces a tolerance, and a tolerance is room. We test two attackers that try to stay inside it. The <i>edit</i> attacker changes every stored entry at every layer in place, by at most ρ × the largest honest error. The <i>distributed forger</i> nudges the residual stream of every document column at the middle layer by a relative ε, then computes everything else honestly, so each column carries only its own small inconsistency.</p><table class="small"><tr><th>model</th><th>dtype</th><th>attack</th><th>ρ or ε</th><th>success</th><th>failing columns (mean)</th><th>fewest failing when it worked</th><th>median max score</th></tr><tr><td>Llama-3.2-1B</td><td>bf16</td><td>edit</td><td>0.1</td><td>0%</td><td>0 / 446</td><td>–</td><td>0.9</td></tr><tr><td>Llama-3.2-1B</td><td>bf16</td><td>edit</td><td>0.3</td><td>58%</td><td>278 / 446</td><td>131</td><td>2.9</td></tr><tr><td>Llama-3.2-1B</td><td>bf16</td><td>edit</td><td>1</td><td>100%</td><td>444 / 446</td><td>427</td><td>8.1</td></tr><tr><td>Llama-3.2-1B</td><td>bf16</td><td>forge</td><td>0.001</td><td>0%</td><td>0 / 446</td><td>–</td><td>0.7</td></tr><tr><td>Llama-3.2-1B</td><td>bf16</td><td>forge</td><td>0.003</td><td>0%</td><td>0 / 446</td><td>–</td><td>0.8</td></tr><tr><td>Llama-3.2-1B</td><td>bf16</td><td>forge</td><td>0.01</td><td>8%</td><td>9 / 446</td><td>8</td><td>1.7</td></tr><tr><td>Llama-3.2-1B</td><td>bf16</td><td>forge</td><td>0.03</td><td>8%</td><td>298 / 446</td><td>290</td><td>4.9</td></tr><tr><td>Llama-3.2-1B</td><td>bf16</td><td>forge</td><td>0.1</td><td>100%</td><td>442 / 446</td><td>425</td><td>10.3</td></tr><tr><td>Llama-3.2-1B</td><td>fp32</td><td>edit</td><td>0.1</td><td>0%</td><td>0 / 444</td><td>–</td><td>0.9</td></tr><tr><td>Llama-3.2-1B</td><td>fp32</td><td>edit</td><td>0.3</td><td>0%</td><td>73 / 444</td><td>–</td><td>2.1</td></tr><tr><td>Llama-3.2-1B</td><td>fp32</td><td>edit</td><td>1</td><td>0%</td><td>436 / 444</td><td>–</td><td>6.9</td></tr><tr><td>Llama-3.2-1B</td><td>fp32</td><td>forge</td><td>1e-05</td><td>0%</td><td>437 / 444</td><td>–</td><td>7.3</td></tr><tr><td>Llama-3.2-1B</td><td>fp32</td><td>forge</td><td>0.0001</td><td>0%</td><td>440 / 444</td><td>–</td><td>72.4</td></tr><tr><td>Llama-3.2-1B</td><td>fp32</td><td>forge</td><td>0.001</td><td>0%</td><td>440 / 444</td><td>–</td><td>731.9</td></tr><tr><td>Llama-3.2-1B</td><td>fp32</td><td>forge</td><td>0.01</td><td>12%</td><td>440 / 444</td><td>446</td><td>6669.5</td></tr><tr><td>Llama-3.2-1B</td><td>fp32</td><td>forge</td><td>0.1</td><td>100%</td><td>440 / 444</td><td>425</td><td>43598.8</td></tr><tr><td>Qwen2.5-0.5B</td><td>bf16</td><td>edit</td><td>0.1</td><td>8%</td><td>127 / 430</td><td>104</td><td>2.4</td></tr><tr><td>Qwen2.5-0.5B</td><td>bf16</td><td>edit</td><td>0.3</td><td>83%</td><td>426 / 430</td><td>408</td><td>7.0</td></tr><tr><td>Qwen2.5-0.5B</td><td>bf16</td><td>edit</td><td>1</td><td>100%</td><td>429 / 430</td><td>410</td><td>20.1</td></tr><tr><td>Qwen2.5-0.5B</td><td>bf16</td><td>forge</td><td>0.001</td><td>0%</td><td>0 / 430</td><td>–</td><td>0.7</td></tr><tr><td>Qwen2.5-0.5B</td><td>bf16</td><td>forge</td><td>0.003</td><td>0%</td><td>0 / 430</td><td>–</td><td>0.7</td></tr><tr><td>Qwen2.5-0.5B</td><td>bf16</td><td>forge</td><td>0.01</td><td>17%</td><td>1 / 430</td><td>0</td><td>1.1</td></tr><tr><td>Qwen2.5-0.5B</td><td>bf16</td><td>forge</td><td>0.03</td><td>25%</td><td>75 / 430</td><td>44</td><td>2.7</td></tr><tr><td>Qwen2.5-0.5B</td><td>bf16</td><td>forge</td><td>0.1</td><td>100%</td><td>426 / 430</td><td>407</td><td>6.9</td></tr></table><p class='cap'>Table 7. Attacks that try to stay inside the bf16 (or fp32) tolerance.</p><p>Llama-3.2-1B bf16: the quietest successful attack (forge, ε = 0.01) left 8 of 446 columns failing, which 16 random columns would catch with probability 25% and 64 with 69%; Llama-3.2-1B fp32: the quietest successful attack (forge, ε = 0.1) left 425 of 444 columns failing, which 16 random columns would catch with probability 100% and 64 with 100%. Below the tolerance (ρ = 0.1, ε ≤ 0.003 in bf16) nothing succeeded on Llama. The band between the tolerance and an effective attack is narrow, because §4 needed perturbations on the order of the residual norm while the tolerance is a few percent of it, and spreading the change over 400 columns does not change that: attention averages the nudges, so effective spread attacks usually break many columns at once, which is exactly what random columns are good at. In fp32 the tolerance is ~10<sup>−6</sup> and every attack lit up almost every column.</p><p><b>But the tolerance is an attack surface.</b> On Qwen2.5-0.5B (bf16), 1 of 12 tasks fell to a distributed forgery (ε = 0.01) that flipped the answer with <i>every</i> column inside the tolerance: its worst column scored just under 1. No column audit, however chosen, can catch that cache, because by the verifier's own standard it is honest. Tightening the threshold would catch it only at the price of false alarms on honest caches, whose worst score was 0.98 on this model. The real fix is a smaller tolerance: batch-invariant, deterministic kernels in prefill and verification, or a verification precision the prefill also uses. In fp32 (tested on Llama), every forgery of this kind lit up hundreds of columns.</p><figure><img src="figures/innoise.png" alt="innoise"><figcaption>Figure 7. In-tolerance attacks: success rate and the number of failing columns as the per-column budget grows.</figcaption></figure>
 <h3>7.1 Across software stacks</h3><p>A verifier will rarely run the same kernels as the prefill worker. We prefill with Hugging Face <code>transformers</code> (bf16, SDPA) and verify with kv-notary's own column recomputation (<code>kvnotary.hf</code> converts the cache). We score honest transformers caches with the thresholds calibrated on kv-notary's own caches, then with thresholds calibrated on transformers caches of the same 20 calibration documents. Then we forge one column with kv-notary's forward, as in §4, and decode it with transformers.</p><table class="small"><tr><th>model</th><th>memos</th><th>false alarms, native τ</th><th>worst honest score</th><th>false alarms, τ from transformers</th><th>worst honest score</th><th>τ ratio, median (max)</th><th>forgeries that fool transformers</th><th>weakest forged score</th></tr><tr><td>Llama-3.2-1B</td><td>24</td><td>1/24</td><td>1.45</td><td>0/24</td><td>1.00</td><td>1.05 (1.45)</td><td>23/23</td><td>22.7</td></tr><tr><td>Qwen2.5-0.5B</td><td>24</td><td>24/24</td><td>4107.13</td><td>0/24</td><td>0.80</td><td>1.23 (6.16e+03)</td><td>23/23</td><td>14.2</td></tr></table><p class='cap'>Table 8. Prefill with transformers, verify with kv-notary. Scores are relative to the threshold (1 = at tolerance).</p><p>Three results. Forgeries transfer: every forged cache that fooled kv-notary's decoder also fooled transformers', so the attack does not depend on the implementation that consumes it. The tolerance must be calibrated against the stack that produces the cache: kv-notary's first layer recomputes Qwen bit-exactly, so its native threshold there is the 10<sup>−6</sup> floor, and every honest transformers cache fails it. Calibrated on transformers caches, the thresholds are mostly within a few tens of percent of the native ones, honest caches pass, and forged columns still score an order of magnitude above the threshold. Cross-stack verification works, but calibration is part of the deployment, not a constant.</p>
 <h3>7.2 One cache, many questions</h3><p>The attacker targets one question, but a node that keeps a cache usually answers several. For every successful forgery we ask the memo's nine other questions and record whether their answers change (collateral damage), and whether a 32-column audit driven by each other question, or by all nine at once, would contain the forged column. All audits merge the four public scores.</p><table class="small"><tr><th>model</th><th>attacker</th><th>success</th><th>other answers changed</th><th>forgeries with no collateral</th><th>caught: target question</th><th>caught: one other question</th><th>caught: all 9 other questions</th><th>caught: all 10 questions</th></tr><tr><td>Llama-3.2-1B</td><td>plain forger</td><td>24/24</td><td>63%</td><td>0%</td><td>100%</td><td>100%</td><td>100%</td><td>100%</td></tr><tr><td>Llama-3.2-1B</td><td>stealth forger (hides from target question)</td><td>9/24</td><td>17%</td><td>22%</td><td>22%</td><td>22%</td><td>11%</td><td>11%</td></tr><tr><td>Qwen2.5-0.5B</td><td>plain forger</td><td>23/24</td><td>44%</td><td>4%</td><td>96%</td><td>86%</td><td>100%</td><td>96%</td></tr><tr><td>Qwen2.5-0.5B</td><td>stealth forger (hides from target question)</td><td>17/24</td><td>27%</td><td>18%</td><td>0%</td><td>5%</td><td>6%</td><td>6%</td></tr></table><p class='cap'>Table 9. Collateral damage and audits driven by other questions (32 columns, public scores merged).</p><p><b>Plain forgeries are blunt.</b> They change 63% and 44% of the other answers (Llama, Qwen), almost none leave every other answer intact (0% and 4%), and an audit driven by any single other question catches 100% and 86% of them. <b>Stealth forgeries are quieter but not clean.</b> They change 17% and 27% of the other answers, and only 22% and 18% leave every other answer intact. A user who asks several questions would often see something wrong, though the node itself cannot tell without knowing the honest answers. Yet audits driven by other questions catch only 22% and 5% of stealth forgeries (one question) and 11% and 6% (all nine at once, 32 columns). Hiding from the target question's attention hides from the other questions' attention too, even when their answers move, which fits the laundering seen in §6.1: the effect travels through honest-looking columns. An audit driven by other traffic is therefore no substitute for auditing the question at hand.</p>

diff --git a/experiments/paper.py b/experiments/paper.py
@@ -393,7 +393,7 @@ def sec_defense():
         t += [f"<h3>{name}</h3>", table(["attacker", "success"] + [lab for _, lab in DEF_PLANS], rows, "small")]
     t.append("<p class='cap'>Table 5. Probability that a 32-column audit catches a successful forgery, by attacker (rows) and audit plan (columns). "
              "Secret: mean over 32 secret draws. Random parts are exact hypergeometric probabilities.</p>")
-    t.append(fig("defense", "Figure 5. Round two of the arms race. Each cell: share of successful forgeries a 32-column audit catches."))
+    t.append(fig("defense", "Figure 5. Rounds two and three of the arms race. Each cell: share of successful forgeries a 32-column audit catches."))
     t.append(defense_text())
     return "".join(t)
 

diff --git a/experiments/figures.py b/experiments/figures.py
@@ -310,7 +310,7 @@ def fig_defense(B="32"):
         ax.grid(False)
         for sp in ax.spines.values():
             sp.set_visible(False)
-    fig.suptitle("Round two: audits against forgers that know the public scores (32 columns audited)", y=1.0)
+    fig.suptitle("Audits against forgers that know how columns are picked (32 columns audited)", y=1.0)
     fig.tight_layout()
     save(fig, "defense")
 
